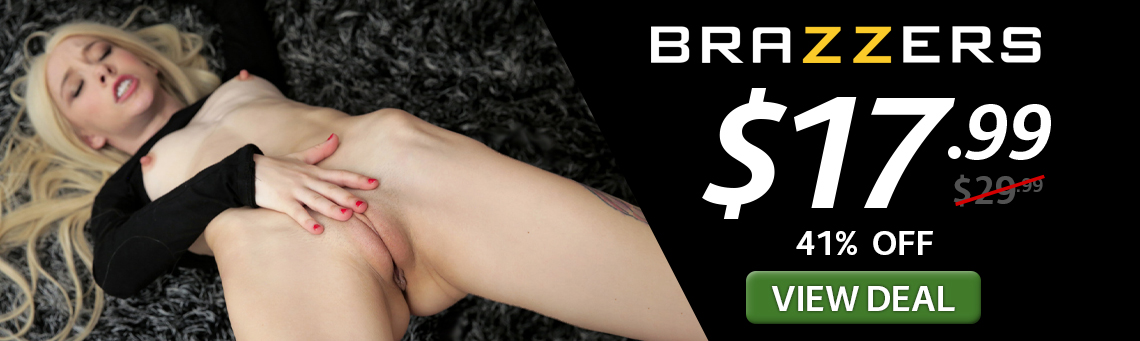
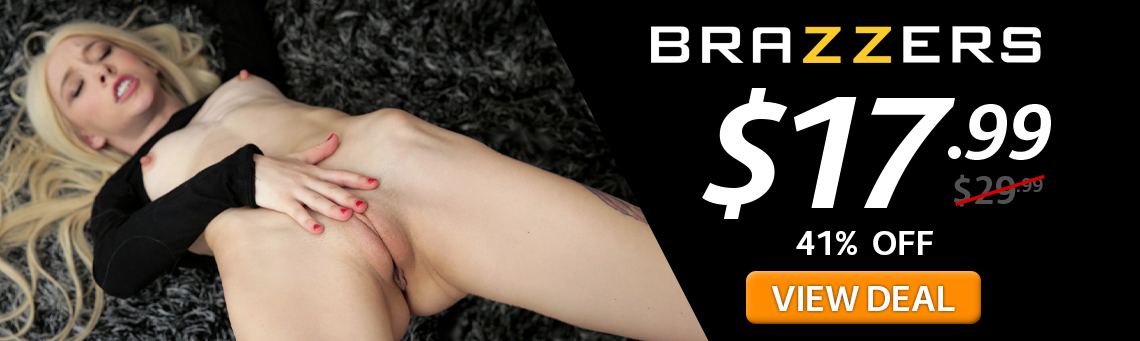
colors

Changed region(s): [[0.6447, 0.7918, 0.8596, 0.9677]]

diff --git a/index.html b/index.html
@@ -226,7 +226,7 @@ function findString (str) {
                             </div>
                             <!-- Product actions-->
                             <div class="card-footer p-4 pt-0 border-top-0 bg-transparent">
-                                <div class="text-center"><a class="btn btn-outline-dark mt-auto" href="https://landing.bangbrosnetwork.com/?ats=eyJhIjozMDI5NzgsImMiOjU4NjEzODM1LCJuIjoxMzAsInMiOjY5MywiZSI6MTA2NzMsInAiOjExfQ==" target="_blank" rel="noopener noreferrer">&nbsp;&nbsp;&nbsp;Get Deal&nbsp;&nbsp;&nbsp;</a></div>
+                                <div class="text-center"><a class="btn btn-outline-dark mt-auto" href="https://landing.bangbrosnetwork.com/?ats=eyJhIjozMDI5NzgsImMiOjU4NjEzODM1LCJuIjoxMzAsInMiOjY5MywiZSI6MTA2NzMsInAiOjExfQ==" target="_blank" rel="noopener noreferrer">Get Discount</a></div>
                             </div>
                         </div>
                     </div>
@@ -258,7 +258,7 @@ function findString (str) {
                             </div>
                             <!-- Product actions-->
                             <div class="card-footer p-4 pt-0 border-top-0 bg-transparent">
-                                <div class="text-center"><a class="btn btn-outline-dark mt-auto" href="https://landing.mofosnetwork.com/?ats=eyJhIjozMDI5NzgsImMiOjU4NjEzODM1LCJuIjoxNSwicyI6MTc2LCJlIjo4OTQzLCJwIjoxMX0=" target="_blank" rel="noopener noreferrer">&nbsp;&nbsp;&nbsp;Get Deal&nbsp;&nbsp;&nbsp;</a></div>
+                                <div class="text-center"><a class="btn btn-outline-dark mt-auto" href="https://landing.mofosnetwork.com/?ats=eyJhIjozMDI5NzgsImMiOjU4NjEzODM1LCJuIjoxNSwicyI6MTc2LCJlIjo4OTQzLCJwIjoxMX0=" target="_blank" rel="noopener noreferrer">Get Discount</a></div>
                             </div>
                         </div>
                     </div>
@@ -322,7 +322,7 @@ function findString (str) {
                             </div>
                             <!-- Product actions-->
                             <div class="card-footer p-4 pt-0 border-top-0 bg-transparent">
-                                <div class="text-center"><a class="btn btn-outline-dark mt-auto" href="https://landing.familysinners.com/?ats=eyJhIjozMDI5NzgsImMiOjU4NjEzODM1LCJuIjo3NiwicyI6NjE2LCJlIjo5NzQ5LCJwIjoxMX0=" target="_blank" rel="noopener noreferrer">&nbsp;&nbsp;&nbsp;Get Deal&nbsp;&nbsp;&nbsp;</a></div>
+                                <div class="text-center"><a class="btn btn-outline-dark mt-auto" href="https://landing.familysinners.com/?ats=eyJhIjozMDI5NzgsImMiOjU4NjEzODM1LCJuIjo3NiwicyI6NjE2LCJlIjo5NzQ5LCJwIjoxMX0=" target="_blank" rel="noopener noreferrer">Get Discount</a></div>
                             </div>
                         </div>
                     </div>
@@ -354,7 +354,7 @@ function findString (str) {
                             </div>
                             <!-- Product actions-->
                             <div class="card-footer p-4 pt-0 border-top-0 bg-transparent">
-                                <div class="text-center"><a class="btn btn-outline-dark mt-auto" href="https://landing.hentaiprosnetwork.com/?ats=eyJhIjozMDI5NzgsImMiOjU4NjEzODM1LCJuIjoyNSwicyI6NTM3LCJlIjo4OTk0LCJwIjoxMX0=" target="_blank" rel="noopener noreferrer">&nbsp;&nbsp;&nbsp;Get Deal&nbsp;&nbsp;&nbsp;</a></div>
+                                <div class="text-center"><a class="btn btn-outline-dark mt-auto" href="https://landing.hentaiprosnetwork.com/?ats=eyJhIjozMDI5NzgsImMiOjU4NjEzODM1LCJuIjoyNSwicyI6NTM3LCJlIjo4OTk0LCJwIjoxMX0=" target="_blank" rel="noopener noreferrer">Get Discount</a></div>
                             </div>
                         </div>
                     </div>
@@ -420,7 +420,7 @@ function findString (str) {
                             </div>
                             <!-- Product actions-->
                             <div class="card-footer p-4 pt-0 border-top-0 bg-transparent">
-                                <div class="text-center"><a class="btn btn-outline-dark mt-auto" href="https://landing.sweetsinner.com/?ats=eyJhIjozMDI5NzgsImMiOjU4NjEzODM1LCJuIjo3NiwicyI6NTkxLCJlIjo5NDI2LCJwIjoxMX0=" target="_blank" rel="noopener noreferrer">&nbsp;&nbsp;&nbsp;Get Deal&nbsp;&nbsp;&nbsp;</a></div>
+                                <div class="text-center"><a class="btn btn-outline-dark mt-auto" href="https://landing.sweetsinner.com/?ats=eyJhIjozMDI5NzgsImMiOjU4NjEzODM1LCJuIjo3NiwicyI6NTkxLCJlIjo5NDI2LCJwIjoxMX0=" target="_blank" rel="noopener noreferrer">Get Discount</a></div>
                             </div>
                         </div>
                     </div>
@@ -516,7 +516,7 @@ function findString (str) {
                             </div>
                             <!-- Product actions-->
                             <div class="card-footer p-4 pt-0 border-top-0 bg-transparent">
-                                <div class="text-center"><a class="btn btn-outline-dark mt-auto" href="https://landing.babesnetwork.com?ats=eyJhIjozMDI5NzgsImMiOjU4NjEzODM1LCJuIjoxNiwicyI6MTY2LCJlIjo4OTk3LCJwIjoxMX0=" target="_blank" rel="noopener noreferrer">&nbsp;Get Coupon&nbsp;</a></div>
+                                <div class="text-center"><a class="btn btn-outline-dark mt-auto" href="https://landing.babesnetwork.com?ats=eyJhIjozMDI5NzgsImMiOjU4NjEzODM1LCJuIjoxNiwicyI6MTY2LCJlIjo4OTk3LCJwIjoxMX0=" target="_blank" rel="noopener noreferrer">Get Discount</a></div>
                             </div>
                         </div>
                     </div>
@@ -580,7 +580,7 @@ function findString (str) {
                             </div>
                             <!-- Product actions-->
                             <div class="card-footer p-4 pt-0 border-top-0 bg-transparent">
-                                <div class="text-center"><a class="btn btn-outline-dark mt-auto" href="https://landing.lookathernow.com/?ats=eyJhIjozMDI5NzgsImMiOjU4NjEzODM1LCJuIjo2NiwicyI6NTY4LCJlIjo5MTEwLCJwIjoxMX0=" target="_blank" rel="noopener noreferrer">&nbsp;Get Coupon&nbsp;</a></div>
+                                <div class="text-center"><a class="btn btn-outline-dark mt-auto" href="https://landing.lookathernow.com/?ats=eyJhIjozMDI5NzgsImMiOjU4NjEzODM1LCJuIjo2NiwicyI6NTY4LCJlIjo5MTEwLCJwIjoxMX0=" target="_blank" rel="noopener noreferrer">Get Discount</a></div>
                             </div>
                         </div>
                     </div>
@@ -613,7 +613,7 @@ function findString (str) {
                             </div>
                             <!-- Product actions-->
                             <div class="card-footer p-4 pt-0 border-top-0 bg-transparent">
-                                <div class="text-center"><a class="btn btn-outline-dark mt-auto" href="https://landing.sexyhub.com/?ats=eyJhIjozMDI5NzgsImMiOjU4NjEzODM1LCJuIjozMSwicyI6MjczLCJlIjo5MTkwLCJwIjoxMX0=" target="_blank" rel="noopener noreferrer">&nbsp;Get Coupon&nbsp;</a></div>
+                                <div class="text-center"><a class="btn btn-outline-dark mt-auto" href="https://landing.sexyhub.com/?ats=eyJhIjozMDI5NzgsImMiOjU4NjEzODM1LCJuIjozMSwicyI6MjczLCJlIjo5MTkwLCJwIjoxMX0=" target="_blank" rel="noopener noreferrer">Get Discount</a></div>
                             </div>
                         </div>
                     </div>
@@ -645,7 +645,7 @@ function findString (str) {
                             </div>
                             <!-- Product actions-->
                             <div class="card-footer p-4 pt-0 border-top-0 bg-transparent">
-                                <div class="text-center"><a class="btn btn-outline-dark mt-auto" href="https://landing.fakehub.com/tgp1/?ats=eyJhIjozMDI5NzgsImMiOjU4NjEzODM1LCJuIjozMCwicyI6MjYxLCJlIjoxMTcwLCJwIjoxMX0=" target="_blank" rel="noopener noreferrer">&nbsp;&nbsp;&nbsp;Get Deal&nbsp;&nbsp;&nbsp;</a></div>
+                                <div class="text-center"><a class="btn btn-outline-dark mt-auto" href="https://landing.fakehub.com/tgp1/?ats=eyJhIjozMDI5NzgsImMiOjU4NjEzODM1LCJuIjozMCwicyI6MjYxLCJlIjoxMTcwLCJwIjoxMX0=" target="_blank" rel="noopener noreferrer">Get Discount</a></div>
                             </div>
                         </div>
                     </div>
@@ -679,7 +679,7 @@ function findString (str) {
                             </div>
                             <!-- Product actions-->
                             <div class="card-footer p-4 pt-0 border-top-0 bg-transparent">
-                                <div class="text-center"><a class="btn btn-outline-dark mt-auto" href="https://landing.milfed.com/?ats=eyJhIjozMDI5NzgsImMiOjU4NjEzODM1LCJuIjo5MiwicyI6NjMxLCJlIjo5ODE2LCJwIjoxMX0=" target="_blank" rel="noopener noreferrer">&nbsp;Get Coupon&nbsp;</a></div>
+                                <div class="text-center"><a class="btn btn-outline-dark mt-auto" href="https://landing.milfed.com/?ats=eyJhIjozMDI5NzgsImMiOjU4NjEzODM1LCJuIjo5MiwicyI6NjMxLCJlIjo5ODE2LCJwIjoxMX0=" target="_blank" rel="noopener noreferrer">Get Discount</a></div>
                             </div>
                         </div>
                     </div>
@@ -711,7 +711,7 @@ function findString (str) {
                             </div>
                             <!-- Product actions-->
                             <div class="card-footer p-4 pt-0 border-top-0 bg-transparent">
-                                <div class="text-center"><a class="btn btn-outline-dark mt-auto" href="https://landing.squirted.com/?ats=eyJhIjozMDI5NzgsImMiOjU4NjEzODM1LCJuIjo4MSwicyI6NjA3LCJlIjo5Njk1LCJwIjoxMX0=" target="_blank" rel="noopener noreferrer">&nbsp;&nbsp;&nbsp;Get Deal&nbsp;&nbsp;&nbsp;</a></div>
+                                <div class="text-center"><a class="btn btn-outline-dark mt-auto" href="https://landing.squirted.com/?ats=eyJhIjozMDI5NzgsImMiOjU4NjEzODM1LCJuIjo4MSwicyI6NjA3LCJlIjo5Njk1LCJwIjoxMX0=" target="_blank" rel="noopener noreferrer">Get Discount</a></div>
                             </div>
                         </div>
                     </div>
@@ -775,7 +775,7 @@ function findString (str) {
                             </div>
                             <!-- Product actions-->
                             <div class="card-footer p-4 pt-0 border-top-0 bg-transparent">
-                                <div class="text-center"><a class="btn btn-outline-dark mt-auto" href="https://landing.milehighmedia.com/?ats=eyJhIjozMDI5NzgsImMiOjU4NjEzODM1LCJuIjo3NiwicyI6NTg5LCJlIjo5NDM1LCJwIjoyfQ==" target="_blank" rel="noopener noreferrer">&nbsp;&nbsp;&nbsp;Get Deal&nbsp;&nbsp;&nbsp;</a></div>
+                                <div class="text-center"><a class="btn btn-outline-dark mt-auto" href="https://landing.milehighmedia.com/?ats=eyJhIjozMDI5NzgsImMiOjU4NjEzODM1LCJuIjo3NiwicyI6NTg5LCJlIjo5NDM1LCJwIjoyfQ==" target="_blank" rel="noopener noreferrer">Get Discount</a></div>
                             </div>
                         </div>
                     </div>
@@ -839,7 +839,7 @@ function findString (str) {
                             </div>
                             <!-- Product actions-->
                             <div class="card-footer p-4 pt-0 border-top-0 bg-transparent">
-                                <div class="text-center"><a class="btn btn-outline-dark mt-auto" href="https://landing.rk.com/tgp1/?ats=eyJhIjozMDI5NzgsImMiOjU4NjEzODM1LCJuIjoyMCwicyI6MzU4LCJlIjo4MDM0LCJwIjoyfQ==" target="_blank" rel="noopener noreferrer">&nbsp;&nbsp;&nbsp;Get Deal&nbsp;&nbsp;&nbsp;</a></div>
+                                <div class="text-center"><a class="btn btn-outline-dark mt-auto" href="https://landing.rk.com/tgp1/?ats=eyJhIjozMDI5NzgsImMiOjU4NjEzODM1LCJuIjoyMCwicyI6MzU4LCJlIjo4MDM0LCJwIjoyfQ==" target="_blank" rel="noopener noreferrer">Get Discount</a></div>
                             </div>
                         </div>
                     </div>
@@ -903,7 +903,7 @@ function findString (str) {
                             </div>
                             <!-- Product actions-->
                             <div class="card-footer p-4 pt-0 border-top-0 bg-transparent">
-                                <div class="text-center"><a class="btn btn-outline-dark mt-auto" href="https://landing.sweetheartvideo.com/?ats=eyJhIjozMDI5NzgsImMiOjU4NjEzODM1LCJuIjo3NiwicyI6NTkwLCJlIjo5NDI3LCJwIjoyfQ==" target="_blank" rel="noopener noreferrer">&nbsp;&nbsp;&nbsp;Get Deal&nbsp;&nbsp;&nbsp;</a></div>
+                                <div class="text-center"><a class="btn btn-outline-dark mt-auto" href="https://landing.sweetheartvideo.com/?ats=eyJhIjozMDI5NzgsImMiOjU4NjEzODM1LCJuIjo3NiwicyI6NTkwLCJlIjo5NDI3LCJwIjoyfQ==" target="_blank" rel="noopener noreferrer">Get Discount</a></div>
                             </div>
                         </div>
                     </div>
@@ -1063,7 +1063,7 @@ function findString (str) {
                             </div>
                            
                             <div class="card-footer p-4 pt-0 border-top-0 bg-transparent">
-                                <div class="text-center"><a class="btn btn-outline-dark mt-auto" href="deals/jerkandsquirt" target="_blank" rel="noopener noreferrer">&nbsp;&nbsp;&nbsp;Get Deal&nbsp;&nbsp;&nbsp;</a></div>
+                                <div class="text-center"><a class="btn btn-outline-dark mt-auto" href="deals/jerkandsquirt" target="_blank" rel="noopener noreferrer">Get Discount</a></div>
                             </div>
                         </div>
                     </div>-->

diff --git a/css/styles.css b/css/styles.css
@@ -3451,11 +3451,11 @@ textarea.form-control-lg {
 
 .btn-outline-dark {
   color: #ffffff!important;
-  background-color: #33b249;
+  background-color: #ff8c00;
 }
 .btn-outline-dark:hover {
   color: #fff;
-  background-color: #278938;
+  background-color: #000;
 }
 .btn-check:focus + .btn-outline-dark, .btn-outline-dark:focus {
   box-shadow: 0 0 0 0.25rem rgba(33, 37, 41, 0.5);
